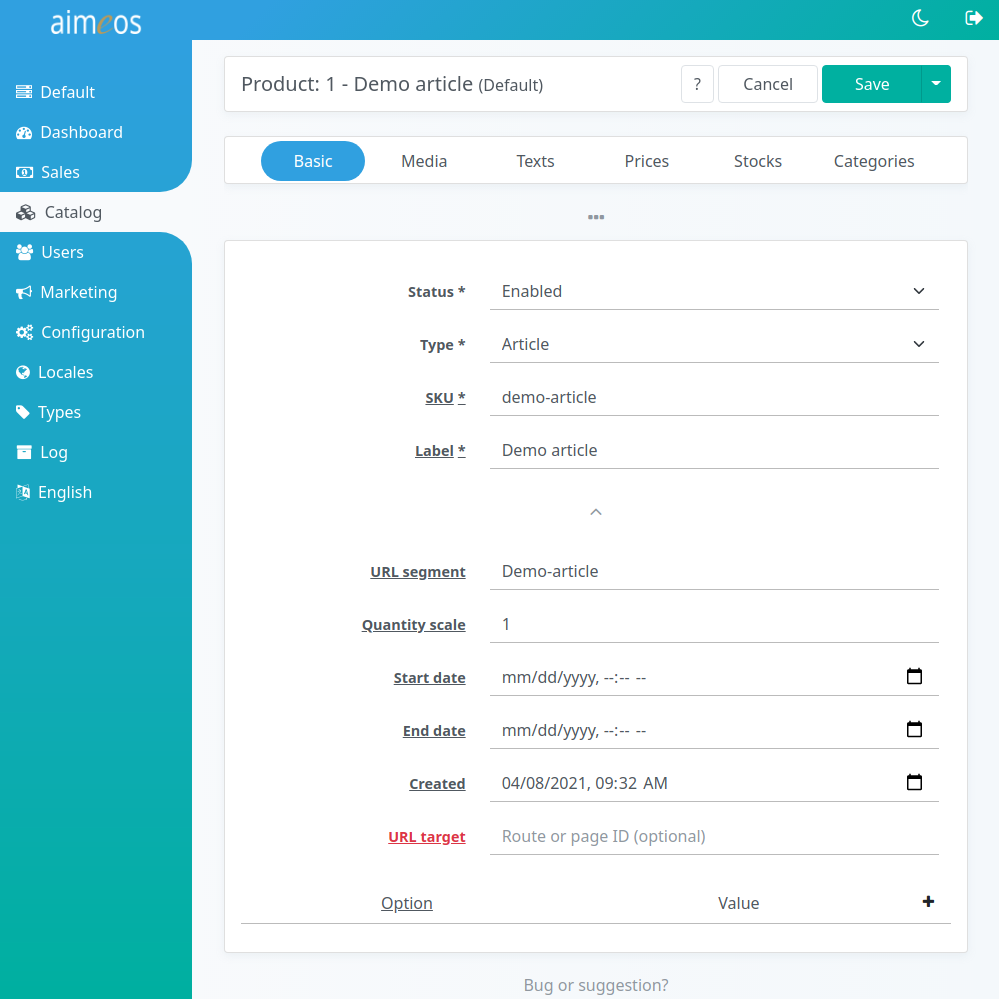
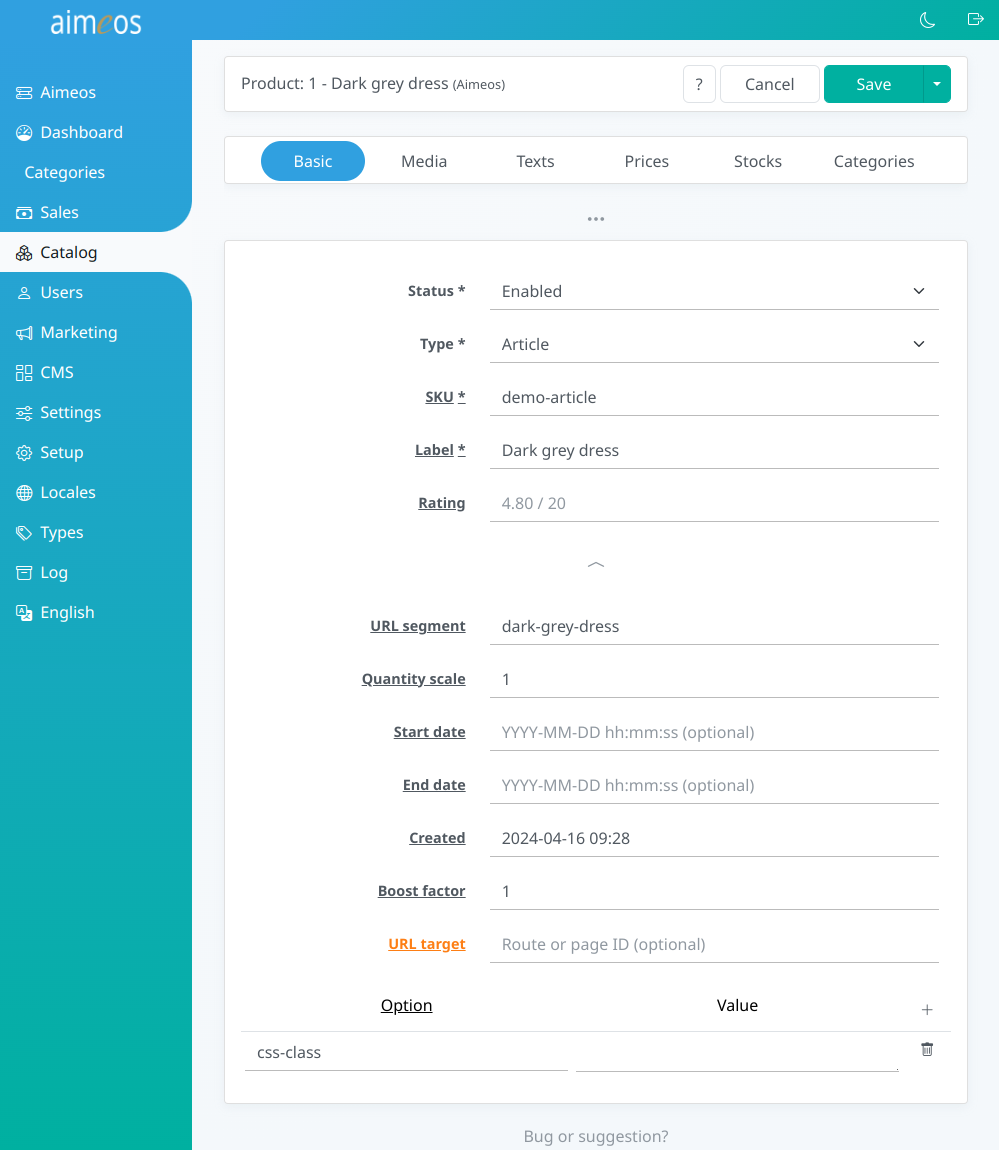
Updated product detail article in user manual

diff --git a/src/manual/product-details.md b/src/manual/product-details.md
@@ -19,22 +19,28 @@ SKU (required)
 Label (required)
 : An internal label which helps you to identify the product and which can be used for searching in the adminstration interface. Usually, this is not used outside of the administration interface but if you don't add a translated name to that product, the label will be shown in the frontend
 
+Rating (read-only)
+: Average rating and number of ratings for that product
+
 URL segment (optional)
 : Name of the product in the URL for SEO. The value is automatically inserted after saving if the field is left empty. For URL segments in different languages, texts of type "URL segment" can be added in the text sub-panel
 
 Quantity scale (optional)
 : Allows ordering products with fractional quantities. The value is the steps allowed for quantities in the basket, e.g. "0.1" for fractional quantities of 1/10th or "5" for multiple of five articles
 
-Available from (optional)
+Start date (optional)
 : The point in time when the product will be shown in the shop can be configured via this field. The date/time has to be in ISO format (YYYY-MM-DD HH:mm:ss) and the hours must be in the range of 0-23. Even if it's possible to enter or choose not only a date but also hours, minutes or even seconds, it may not be the exact time when the product will first show up in the frontend due to caching
+
+End date (optional)
+: The point in time when the product won't be shown in the shop any more. For this field the same things apply as for "Available from"
 
 Created (optional)
 : Custom date when the article has been created. It will be used when sorting the product lists by "Latest" and is handy for publishing dates like for books
 
-Available until (optional)
-: The point in time when the product won't be shown in the shop any more. For this field the same things apply as for "Available from"
+Boost factor (optional)
+: Factor the product relevance will be multiplied with in (full text) search results, e.g. a factor of 1.1 increases the relevance by 10% compared to other products with a factor of 1. The boost factor can also be smaller and 1 to decrease the relevance of the product, e.g. 0.9 will decrease its relevance by 10% compared to other products
 
-Target (optional)
+URL target (optional)
 : Route name or page ID the product list view should link to for the detail page. This allows to you use different detail pages for some of your products. Use only if you know what your are doing because otherwise, this will cause an error in the frontend!
 
 Option/Value (optional)
